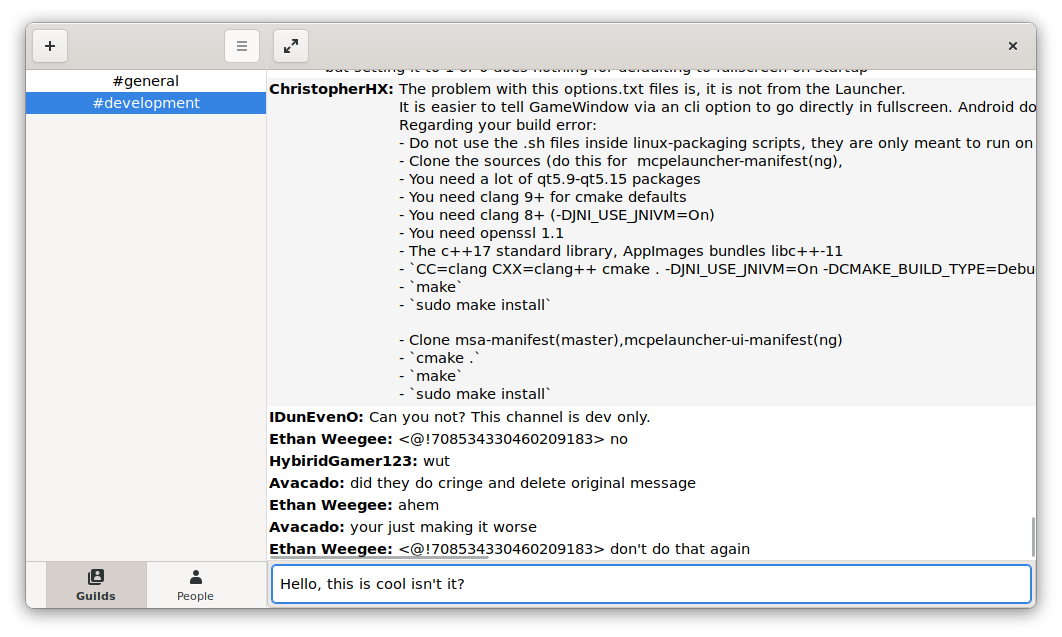
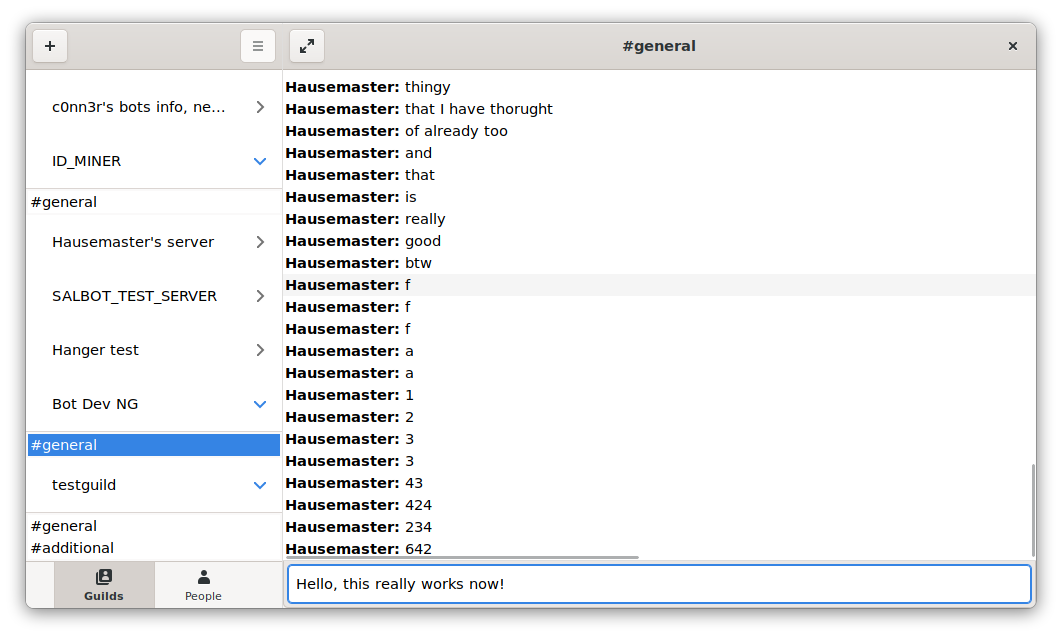
update one screenshot to feature new sidebar

diff --git a/README.md b/README.md
@@ -17,7 +17,7 @@ flatpak-builder --force-clean --user --install build-dir org.gnome.gitlab.ranche
 flatpak run org.gnome.gitlab.ranchester.Mirdorph
 ```
 
-Here are a few screenshots of 0.0.1:
+Here are a few screenshots of 0.0.1 (except for one of them):
 
 ![image](./doc/asset/mirdorph-login.png)
 ![image](./doc/asset/mirdorph-login-token.png)
